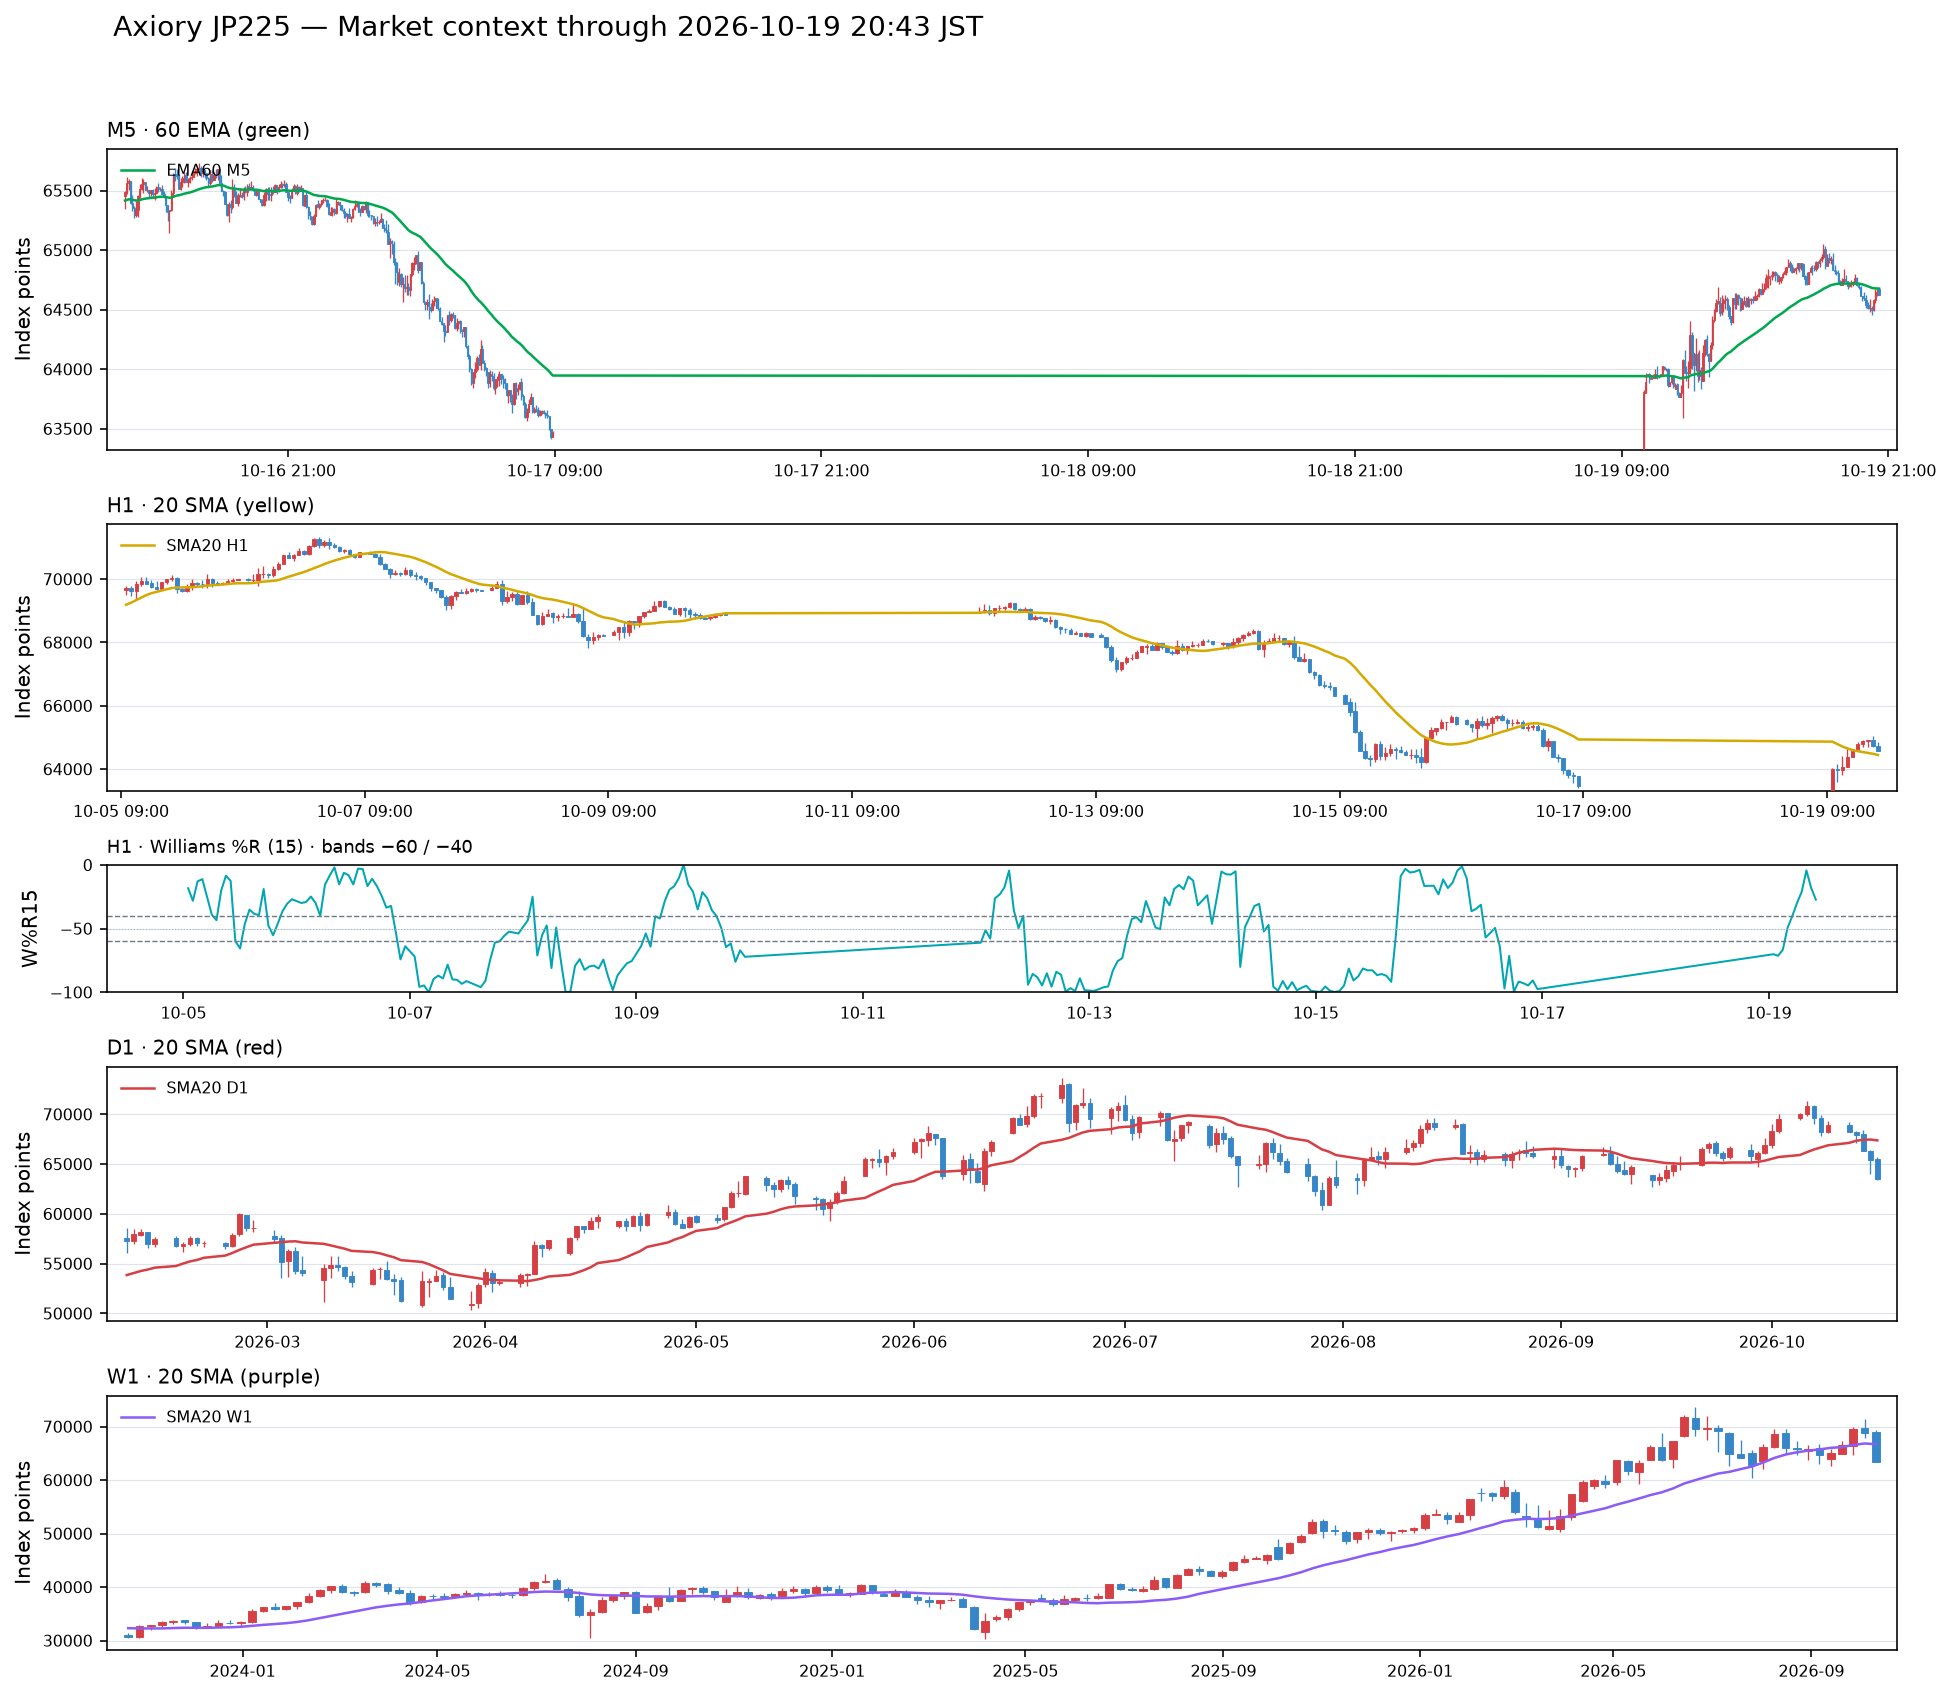
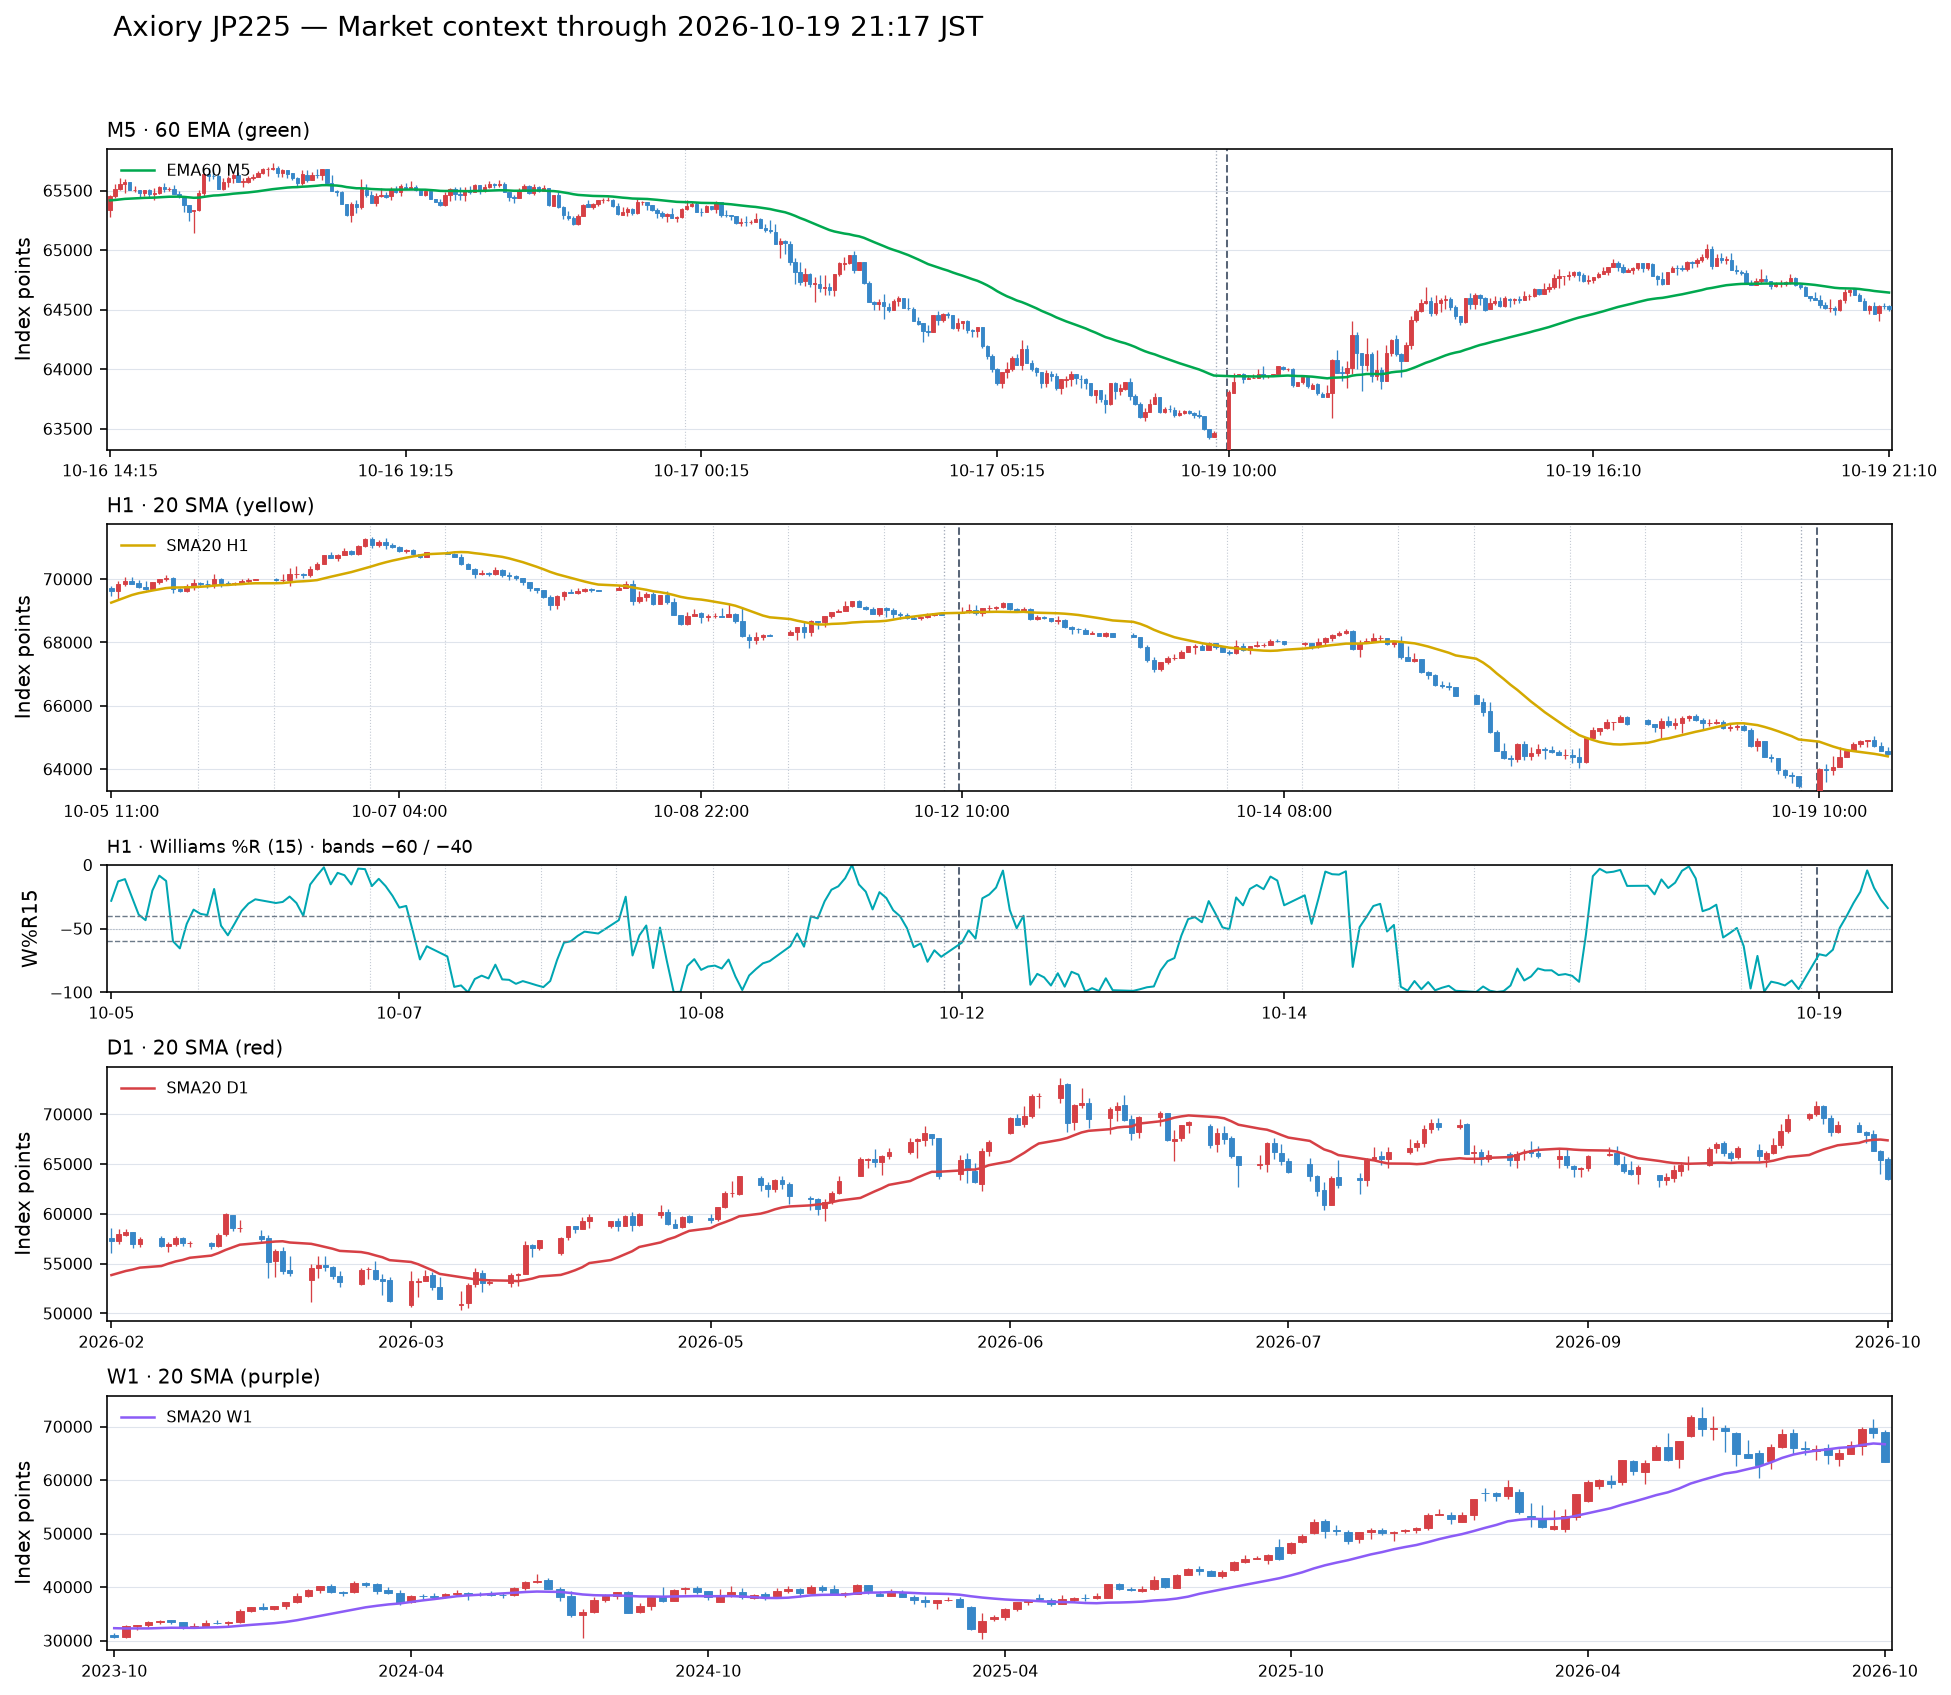
Compress closed market gaps in Axiory charts

diff --git a/scripts/update_market_context.py b/scripts/update_market_context.py
@@ -11,7 +11,6 @@ from pathlib import Path
 from typing import Any
 from zoneinfo import ZoneInfo
 
-import matplotlib.dates as mdates
 import matplotlib.pyplot as plt
 import pandas as pd
 
@@ -502,10 +501,22 @@ def plot_candles(
     average_column: str,
     average_label: str,
     average_color: str,
-) -> None:
+) -> tuple[pd.DataFrame, list[float], list[datetime]]:
     view = frame.tail(limit).copy()
-    x_values = mdates.date2num(view["time_utc"].dt.tz_convert(JST).tolist())
-    bar_width = TIMEFRAMES[timeframe][1].total_seconds() / 86_400 * 0.68
+    local_times = [timestamp.to_pydatetime() for timestamp in view["time_utc"].dt.tz_convert(JST)]
+    x_values = [0.0]
+    interval = TIMEFRAMES[timeframe][1]
+    for previous, current in zip(local_times, local_times[1:]):
+        elapsed = current - previous
+        # Keep true time order but reduce every no-data interval to a small gap.
+        if elapsed >= interval * 2:
+            step = 3.0
+        elif elapsed > interval * 1.5:
+            step = 1.5
+        else:
+            step = 1.0
+        x_values.append(x_values[-1] + step)
+    bar_width = 0.68
     point = 0.01
     for x_value, row in zip(x_values, view.itertuples(index=False)):
         opening = float(row.open)
@@ -538,8 +549,89 @@ def plot_candles(
     axis.set_ylabel("Index points")
     axis.grid(axis="y", color="#d8dee8", linewidth=0.55, alpha=0.8)
     axis.legend(loc="upper left", frameon=False, fontsize=8)
-    axis.xaxis_date()
-    axis.margins(x=0.01)
+    set_compressed_time_ticks(axis, local_times, x_values, timeframe)
+    if timeframe in ("M5", "H1"):
+        add_intraday_date_lines(axis, local_times, x_values, timeframe, bar_width)
+    return view, x_values, local_times
+
+
+def set_compressed_time_ticks(
+    axis: Any,
+    local_times: list[datetime],
+    x_values: list[float],
+    timeframe: str,
+    *,
+    date_format: str | None = None,
+) -> None:
+    if not local_times:
+        return
+    tick_count = min(7, len(local_times))
+    if tick_count == 1:
+        tick_indices = {0}
+    else:
+        tick_indices = {
+            round(index * (len(local_times) - 1) / (tick_count - 1)) for index in range(tick_count)
+        }
+    if timeframe in ("M5", "H1"):
+        open_indices = []
+        for index in range(1, len(local_times)):
+            elapsed = local_times[index] - local_times[index - 1]
+            if local_times[index].weekday() == 0 and elapsed >= timedelta(hours=24):
+                open_indices.append(index)
+        for open_index in open_indices:
+            if open_index in tick_indices:
+                continue
+            replaceable = [index for index in tick_indices if index not in (0, len(local_times) - 1)]
+            if replaceable:
+                tick_indices.remove(min(replaceable, key=lambda index: abs(index - open_index)))
+                tick_indices.add(open_index)
+        if open_indices:
+            last_index = len(local_times) - 1
+            min_spacing = max(12, len(local_times) // 24)
+            if last_index - max(open_indices) < min_spacing:
+                tick_indices.discard(last_index)
+    tick_indices = sorted(tick_indices)
+    if date_format is None:
+        date_format = "%m-%d %H:%M" if timeframe in ("M5", "H1") else "%Y-%m"
+    axis.set_xticks([x_values[index] for index in tick_indices])
+    axis.set_xticklabels([local_times[index].strftime(date_format) for index in tick_indices])
+    axis.set_xlim(x_values[0] - 0.65, x_values[-1] + 0.65)
+
+
+def add_intraday_date_lines(
+    axis: Any,
+    local_times: list[datetime],
+    x_values: list[float],
+    timeframe: str,
+    bar_width: float,
+) -> None:
+    interval = TIMEFRAMES[timeframe][1]
+    for index in range(1, len(local_times)):
+        previous = local_times[index - 1]
+        current = local_times[index]
+        elapsed = current - previous
+        has_date_change = current.date() != previous.date()
+        has_session_gap = elapsed >= interval * 2
+        if not has_date_change and not has_session_gap:
+            continue
+        monday_open = current.weekday() == 0 and elapsed >= timedelta(hours=24)
+        if elapsed >= timedelta(hours=24):
+            axis.axvline(
+                x_values[index - 1] + bar_width / 2,
+                color="#8a94a6",
+                linewidth=0.65,
+                linestyle=":",
+                alpha=0.8,
+                zorder=1,
+            )
+        axis.axvline(
+            x_values[index] - bar_width / 2,
+            color="#475569" if monday_open else "#b0b8c5",
+            linewidth=1.0 if monday_open else 0.55,
+            linestyle="--" if monday_open else ":",
+            alpha=0.9 if monday_open else 0.75,
+            zorder=1,
+        )
 
 
 def create_market_chart(symbol: str, digits: int, chart_dir: Path, generated_at: datetime) -> Path:
@@ -564,10 +656,10 @@ def create_market_chart(symbol: str, digits: int, chart_dir: Path, generated_at:
     plot_candles(axes[0], frames["M5"], "M5", 360, "ema60", "EMA60 M5", "#00a84f")
     axes[0].set_title("M5 · 60 EMA (green)", loc="left", fontsize=10)
 
-    plot_candles(axes[1], frames["H1"], "H1", 240, "sma20", "SMA20 H1", "#d4a900")
+    h1_view, h1_x, h1_times = plot_candles(
+        axes[1], frames["H1"], "H1", 240, "sma20", "SMA20 H1", "#d4a900"
+    )
     axes[1].set_title("H1 · 20 SMA (yellow)", loc="left", fontsize=10)
-    h1_view = frames["H1"].tail(240)
-    h1_x = mdates.date2num(h1_view["time_utc"].dt.tz_convert(JST).tolist())
     axes[2].plot(h1_x, h1_view["wpr15"], color="#00a6b2", linewidth=1.0)
     axes[2].axhline(-40, color="#6c7a89", linewidth=0.7, linestyle="--")
     axes[2].axhline(-60, color="#6c7a89", linewidth=0.7, linestyle="--")
@@ -576,7 +668,8 @@ def create_market_chart(symbol: str, digits: int, chart_dir: Path, generated_at:
     axes[2].set_ylabel("W%R15")
     axes[2].set_title("H1 · Williams %R (15) · bands −60 / −40", loc="left", fontsize=9)
     axes[2].grid(axis="y", color="#d8dee8", linewidth=0.5, alpha=0.8)
-    axes[2].xaxis_date()
+    set_compressed_time_ticks(axes[2], h1_times, h1_x, "H1", date_format="%m-%d")
+    add_intraday_date_lines(axes[2], h1_times, h1_x, "H1", 0.68)
 
     plot_candles(axes[3], frames["D1"], "D1", 180, "sma20", "SMA20 D1", "#d64045")
     axes[3].set_title("D1 · 20 SMA (red)", loc="left", fontsize=10)
@@ -584,16 +677,9 @@ def create_market_chart(symbol: str, digits: int, chart_dir: Path, generated_at:
     plot_candles(axes[4], frames["W1"], "W1", 156, "sma20", "SMA20 W1", "#8b5cf6")
     axes[4].set_title("W1 · 20 SMA (purple)", loc="left", fontsize=10)
 
-    for axis, timeframe in zip((axes[0], axes[1], axes[3], axes[4]), ("M5", "H1", "D1", "W1")):
-        if timeframe in ("M5", "H1"):
-            axis.xaxis.set_major_formatter(mdates.DateFormatter("%m-%d %H:%M", tz=JST))
-        else:
-            axis.xaxis.set_major_formatter(mdates.DateFormatter("%Y-%m", tz=JST))
+    for axis in axes:
         axis.tick_params(axis="x", labelsize=8)
         axis.tick_params(axis="y", labelsize=8)
-    axes[2].xaxis.set_major_formatter(mdates.DateFormatter("%m-%d", tz=JST))
-    axes[2].tick_params(axis="x", labelsize=8)
-    axes[2].tick_params(axis="y", labelsize=8)
     figure.tight_layout(rect=(0.02, 0.01, 0.99, 0.96), h_pad=0.8)
     chart_dir.mkdir(parents=True, exist_ok=True)
     chart_path = chart_dir / f"{symbol}_market_context.png"
@@ -614,6 +700,7 @@ def build_daily_markdown(
         f"- 生成時刻: {generated_at.astimezone(JST).strftime('%Y-%m-%d %H:%M:%S JST')}",
         "- データ元: Axiory MetaTrader 5（銘柄名 JP225 / US100）。別口座のJP225Cash/US100Cashとは価格系列が異なります。",
         "- 時刻: CSVはUTC。日誌とチャートはJST。未確定足を除外しています。",
+        "- チャート表示: 足データのない時間帯は圧縮し、M5/H1にはJSTの日付線、月曜の最初のOPENには強調線を表示します。",
         "- 指標の読み方とチャート規約: [市場コンテキストのレシピ](../../market_context_recipe.md)",
         "",
         "| 銘柄 | M5終値 / EMA60（緑） | H1終値 / SMA20（黄） | W%R15 H1 | D1終値 / SMA20（赤） | W1終値 / SMA20（紫） | PO H1 / D1 / W1 |",

diff --git a/diaries/2026-10-19/market_context/market_context.md b/diaries/2026-10-19/market_context/market_context.md
@@ -1,14 +1,15 @@
 # US100・JP225 日次マーケット指標 — 2026-10-19（JST）
 
-- 生成時刻: 2026-10-19 20:43:14 JST
+- 生成時刻: 2026-10-19 21:17:58 JST
 - データ元: Axiory MetaTrader 5（銘柄名 JP225 / US100）。別口座のJP225Cash/US100Cashとは価格系列が異なります。
 - 時刻: CSVはUTC。日誌とチャートはJST。未確定足を除外しています。
+- チャート表示: 足データのない時間帯は圧縮し、M5/H1にはJSTの日付線、月曜の最初のOPENには強調線を表示します。
 - 指標の読み方とチャート規約: [市場コンテキストのレシピ](../../market_context_recipe.md)
 
 | 銘柄 | M5終値 / EMA60（緑） | H1終値 / SMA20（黄） | W%R15 H1 | D1終値 / SMA20（赤） | W1終値 / SMA20（紫） | PO H1 / D1 / W1 |
 |---|---|---|---:|---|---|---|
-| JP225 | 64,621.60 / 64,676.37（終値が下） | 64,581.60 / 64,445.73（終値が上） | -27.27 上側（≥ -40） | 63,465.86 / 67,377.89（終値が下） | 63,465.86 / 66,702.04（終値が下） | なし / なし / 上昇PO |
-| US100 | 29,543.20 / 29,559.81（終値が下） | 29,534.81 / 29,502.96（終値が上） | -16.93 上側（≥ -40） | 29,197.16 / 30,542.90（終値が下） | 29,197.16 / 29,536.95（終値が下） | なし / なし / 上昇PO |
+| JP225 | 64,501.60 / 64,643.13（終値が下） | 64,466.60 / 64,401.64（終値が上） | -33.91 上側（≥ -40） | 63,465.86 / 67,377.89（終値が下） | 63,465.86 / 66,702.04（終値が下） | なし / なし / 上昇PO |
+| US100 | 29,510.78 / 29,549.67（終値が下） | 29,497.65 / 29,482.94（終値が上） | -23.61 上側（≥ -40） | 29,197.16 / 30,542.90（終値が下） | 29,197.16 / 29,536.95（終値が下） | なし / なし / 上昇PO |
 
 ## ソースCSV
 
@@ -29,14 +30,14 @@
 
 | 銘柄 | 足 | 保存本数 | 全履歴の最古足（JST） | 最終足の終了時刻（JST） | 今回の差分 |
 |---|---|---:|---|---|---:|
-| JP225 | M1 | 542,761 | 2025-04-07 10:00 | 2026-10-19 20:43 | 32本 |
-| JP225 | M5 | 108,829 | 2025-04-07 10:00 | 2026-10-19 20:40 | 6本 |
-| JP225 | H1 | 9,080 | 2025-04-07 10:00 | 2026-10-19 20:00 | 0本 |
+| JP225 | M1 | 542,795 | 2025-04-07 10:00 | 2026-10-19 21:17 | 0本 |
+| JP225 | M5 | 108,836 | 2025-04-07 10:00 | 2026-10-19 21:15 | 0本 |
+| JP225 | H1 | 9,081 | 2025-04-07 10:00 | 2026-10-19 21:00 | 0本 |
 | JP225 | D1 | 980 | 2023-01-03 09:00 | 2026-10-17 09:00 | 0本 |
 | JP225 | W1 | 197 | 2023-01-08 09:00 | 2026-10-18 09:00 | 0本 |
-| US100 | M1 | 542,621 | 2025-04-07 10:00 | 2026-10-19 20:43 | 32本 |
-| US100 | M5 | 108,541 | 2025-04-07 10:00 | 2026-10-19 20:40 | 6本 |
-| US100 | H1 | 9,055 | 2025-04-07 10:00 | 2026-10-19 20:00 | 0本 |
+| US100 | M1 | 542,655 | 2025-04-07 10:00 | 2026-10-19 21:17 | 0本 |
+| US100 | M5 | 108,548 | 2025-04-07 10:00 | 2026-10-19 21:15 | 0本 |
+| US100 | H1 | 9,056 | 2025-04-07 10:00 | 2026-10-19 21:00 | 0本 |
 | US100 | D1 | 980 | 2023-01-03 09:00 | 2026-10-17 09:00 | 0本 |
 | US100 | W1 | 197 | 2023-01-08 09:00 | 2026-10-18 09:00 | 0本 |
 

diff --git a/diaries/market_context_recipe.md b/diaries/market_context_recipe.md
@@ -33,7 +33,7 @@
 
 ## 日次チャート仕様
 
-銘柄ごとに1枚の多時間足PNGを作ります。縦に次の5パネルを並べます。
+銘柄ごとに1枚の多時間足PNGを作ります。縦に次の5パネルを並べます。各足は実際の日時順を保ちつつ、OHLCデータがない区間の実時間幅を使わず、固定の短い間隔に圧縮します。M5/H1/W%RにはJSTの日付切替線を引き、週末をまたぐ場合は前回取引の終了位置と月曜の最初の足（OPEN）を別の垂直線で示します。データのない足は作りません。
 
 1. M5ローソク足（直近360本）+ EMA60（緑）
 2. H1ローソク足（直近240本）+ SMA20（黄）
